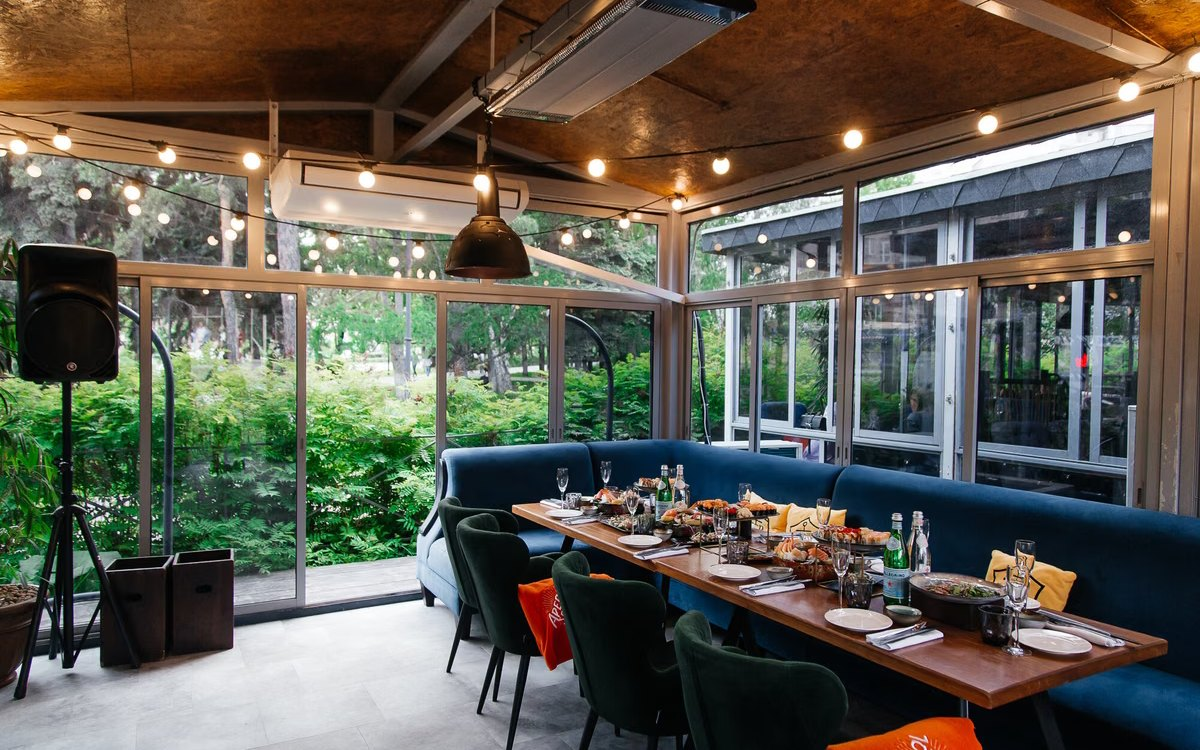
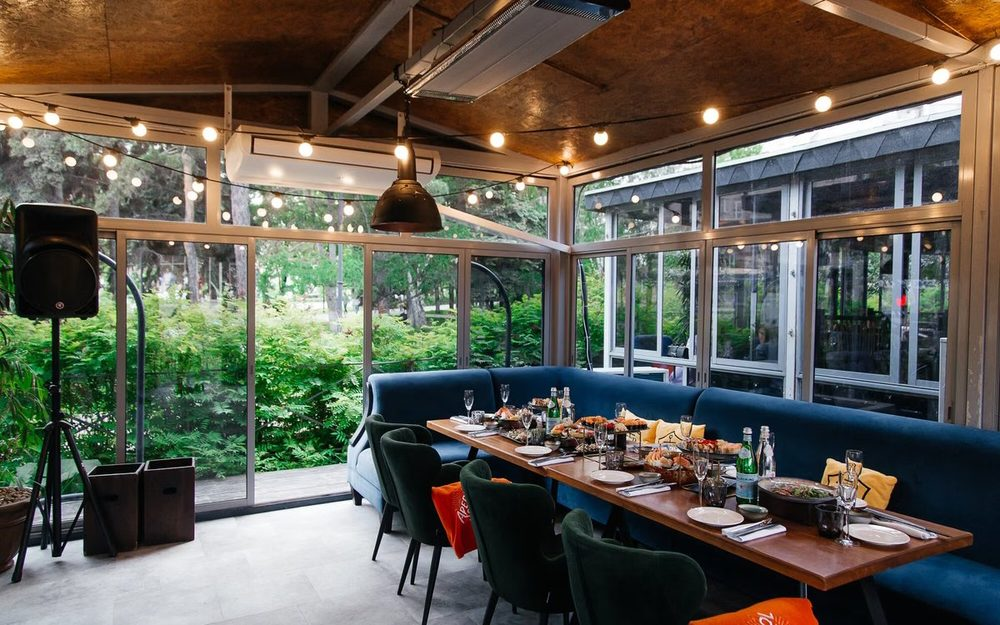
Ускорение загрузки фото и чистка мёртвого кода
- WebP через <picture> с JPEG-фоллбэком, фото ужаты до 1000 px:
  2813 КБ -> 1164 КБ (41%)
- loading=lazy, decoding=async и width/height на всех 15 фото
- удалён неработавший скрипт подстановки фото из photos/ (18 строк):
  все картинки и так прописаны в разметке
- убран тег фильтра italy у «Сицилии» — кнопки для него нет

diff --git a/index.html b/index.html
@@ -126,6 +126,7 @@
   .card .ill .b{fill:#C3CEDC}
 
   /* photos */
+  .card picture{display:block}
   .card img.ph{display:block;width:100%;aspect-ratio:16/10;object-fit:cover;
     border-radius:3px;margin:-2px 0 15px;background:#E7DFD6}
 
@@ -241,7 +242,11 @@
     <div class="rule"></div>
     <h2>Где вы живёте</h2>
     <div class="card" data-photo="vidgof">
-      <img class="ph" alt="" src="photos/vidgof.jpg">
+      <picture>
+        <source srcset="photos/vidgof.webp" type="image/webp">
+        <img class="ph" alt="" src="photos/vidgof.jpg"
+             width="1000" height="625" loading="lazy" decoding="async">
+      </picture>
       <h3>Гранд Отель Видгоф</h3>
       <p class="kind">Ресепшн круглосуточно</p>
       <p class="meta">пр. Ленина, 26А<br><span>Бассейн, тренажёрный зал, завтрак</span></p>
@@ -265,8 +270,12 @@
       <button data-f="delivery">Доставка</button>
     </div>
 
-    <div class="card" data-t="blizko italy" data-photo="sicilia">
-      <img class="ph" alt="" src="photos/sicilia.jpg">
+    <div class="card" data-t="blizko" data-photo="sicilia">
+      <picture>
+        <source srcset="photos/sicilia.webp" type="image/webp">
+        <img class="ph" alt="" src="photos/sicilia.jpg"
+             width="1000" height="625" loading="lazy" decoding="async">
+      </picture>
       <h3>Сицилия</h3>
       <p class="kind">Итальянская, паста и пицца</p>
       <p class="meta">ул. Тимирязева, 28<br><span>Пн–Пт 12:00–23:00 · Сб–Вс 11:00–23:00</span>
@@ -280,7 +289,11 @@
     </div>
 
     <div class="card" data-t="blizko rus" data-photo="bufet">
-      <img class="ph" alt="" src="photos/bufet.jpg">
+      <picture>
+        <source srcset="photos/bufet.webp" type="image/webp">
+        <img class="ph" alt="" src="photos/bufet.jpg"
+             width="1000" height="625" loading="lazy" decoding="async">
+      </picture>
       <h3>Буфет на Большой</h3>
       <p class="kind">Русская кухня в историческом центре</p>
       <p class="meta">ул. Цвиллинга, 20<br><span>Ежедневно 12:00–00:00</span>
@@ -295,7 +308,11 @@
     </div>
 
     <div class="card" data-t="blizko rus" data-photo="zhuravlina">
-      <img class="ph" alt="" src="photos/zhuravlina.jpg">
+      <picture>
+        <source srcset="photos/zhuravlina.webp" type="image/webp">
+        <img class="ph" alt="" src="photos/zhuravlina.jpg"
+             width="1000" height="625" loading="lazy" decoding="async">
+      </picture>
       <h3>Журавлина</h3>
       <p class="kind">Славянская кухня, вареники и борщ</p>
       <p class="meta">ул. Кирова, 163<br><span>Ежедневно 12:00–23:00</span>
@@ -308,7 +325,11 @@
     </div>
 
     <div class="card" data-t="blizko rus" data-photo="rodnya">
-      <img class="ph" alt="" src="photos/rodnya.jpg">
+      <picture>
+        <source srcset="photos/rodnya.webp" type="image/webp">
+        <img class="ph" alt="" src="photos/rodnya.jpg"
+             width="1000" height="625" loading="lazy" decoding="async">
+      </picture>
       <h3>Родня</h3>
       <p class="kind">Русская кухня и стейки, вечером живая музыка</p>
       <p class="meta">ул. Кирова, 82, второй этаж<br><span>Ежедневно 12:00–00:00</span>
@@ -321,7 +342,11 @@
     </div>
 
     <div class="card" data-t="asia" data-photo="lancheria">
-      <img class="ph" alt="" src="photos/lancheria.jpg">
+      <picture>
+        <source srcset="photos/lancheria.webp" type="image/webp">
+        <img class="ph" alt="" src="photos/lancheria.jpg"
+             width="1000" height="625" loading="lazy" decoding="async">
+      </picture>
       <h3>Ланчерия</h3>
       <p class="kind">Паназиатская: рамен, поке, роллы</p>
       <p class="meta">пр. Ленина, 63<br><span>Ежедневно до 23:00</span><br>
@@ -334,7 +359,11 @@
     </div>
 
     <div class="card" data-t="asia" data-photo="asabi">
-      <img class="ph" alt="" src="photos/asabi.jpg">
+      <picture>
+        <source srcset="photos/asabi.webp" type="image/webp">
+        <img class="ph" alt="" src="photos/asabi.jpg"
+             width="1000" height="625" loading="lazy" decoding="async">
+      </picture>
       <h3>Asabi</h3>
       <p class="kind">Паназиатская: суши, утка, бранчи по выходным</p>
       <p class="meta">пр. Ленина, 66а<br><span>Вс–Чт 12:00–23:00 · Пт–Сб 12:00–01:00</span>
@@ -349,7 +378,11 @@
     </div>
 
     <div class="card" data-t="company" data-photo="belyrynok">
-      <img class="ph" alt="" src="photos/belyrynok.jpg">
+      <picture>
+        <source srcset="photos/belyrynok.webp" type="image/webp">
+        <img class="ph" alt="" src="photos/belyrynok.jpg"
+             width="1000" height="625" loading="lazy" decoding="async">
+      </picture>
       <h3>Белый рынок</h3>
       <p class="kind">Гастромаркет: двадцать корнеров и два бара</p>
       <p class="meta">ул. Тернопольская, 6<br><span>Вс–Чт 11:00–22:00 · Пт–Сб 11:00–00:00</span>
@@ -363,7 +396,11 @@
     </div>
 
     <div class="card" data-t="delivery" data-photo="sushimango">
-      <img class="ph" alt="" src="photos/sushimango.jpg">
+      <picture>
+        <source srcset="photos/sushimango.webp" type="image/webp">
+        <img class="ph" alt="" src="photos/sushimango.jpg"
+             width="1000" height="625" loading="lazy" decoding="async">
+      </picture>
       <h3>Sushi Манго</h3>
       <p class="kind">Доставка суши и роллов в номер</p>
       <p class="meta">ул. Образцова, 28 — только доставка и самовывоз</p>
@@ -381,7 +418,11 @@
     <h2>Куда сходить</h2>
 
     <div class="card" data-photo="kirovka">
-      <img class="ph" alt="" src="photos/kirovka.jpg">
+      <picture>
+        <source srcset="photos/kirovka.webp" type="image/webp">
+        <img class="ph" alt="" src="photos/kirovka.jpg"
+             width="1000" height="625" loading="lazy" decoding="async">
+      </picture>
       <h3>Кировка</h3>
       <p class="kind">Пешеходная улица, дома 92–100 по улице Кирова</p>
       <p class="meta"><span>Открыта всегда — лучше вечером</span>
@@ -393,7 +434,11 @@
     </div>
 
     <div class="card" data-photo="naberezhnaya">
-      <img class="ph" alt="" src="photos/naberezhnaya.jpg">
+      <picture>
+        <source srcset="photos/naberezhnaya.webp" type="image/webp">
+        <img class="ph" alt="" src="photos/naberezhnaya.jpg"
+             width="1000" height="625" loading="lazy" decoding="async">
+      </picture>
       <h3>Набережная реки Миасс</h3>
       <p class="kind">Прогулочная набережная в центре</p>
       <p class="meta"><span>Открыта всегда</span>
@@ -404,7 +449,11 @@
     </div>
 
     <div class="card" data-photo="gagarin">
-      <img class="ph" alt="" src="photos/gagarin.jpg">
+      <picture>
+        <source srcset="photos/gagarin.webp" type="image/webp">
+        <img class="ph" alt="" src="photos/gagarin.jpg"
+             width="1000" height="625" loading="lazy" decoding="async">
+      </picture>
       <h3>Парк имени Гагарина</h3>
       <p class="kind">Главный парк города, вход с улицы Труда</p>
       <p class="meta"><span>Лесопарк со скалами и прудами, аттракционы, зоопарк рядом</span>
@@ -415,7 +464,11 @@
     </div>
 
     <div class="card" data-photo="hwoya">
-      <img class="ph" alt="" src="photos/hwoya.jpg">
+      <picture>
+        <source srcset="photos/hwoya.webp" type="image/webp">
+        <img class="ph" alt="" src="photos/hwoya.jpg"
+             width="1000" height="625" loading="lazy" decoding="async">
+      </picture>
       <h3>Хвоя</h3>
       <p class="kind">Термальный спа-комплекс на границе городского бора</p>
       <p class="meta">ул. Лесопарковая, 9А<br><span>Возраст 14+</span>
@@ -434,7 +487,11 @@
     <h2>Вечером</h2>
 
     <div class="card" data-photo="ugol">
-      <img class="ph" alt="" src="photos/ugol.jpg">
+      <picture>
+        <source srcset="photos/ugol.webp" type="image/webp">
+        <img class="ph" alt="" src="photos/ugol.jpg"
+             width="1000" height="625" loading="lazy" decoding="async">
+      </picture>
       <h3>Уголь Лаунж</h3>
       <p class="kind">Кальяны и авторская кухня, панорамные окна</p>
       <p class="meta">пр. Ленина, 64Б, ЖК «Алое поле»<br><span>Второй этаж, вход с улицы Володарского</span>
@@ -447,7 +504,11 @@
     </div>
 
     <div class="card" data-photo="siberia">
-      <img class="ph" alt="" src="photos/siberia.jpg">
+      <picture>
+        <source srcset="photos/siberia.webp" type="image/webp">
+        <img class="ph" alt="" src="photos/siberia.jpg"
+             width="1000" height="625" loading="lazy" decoding="async">
+      </picture>
       <h3>Siberia Lounge</h3>
       <p class="kind">Кальянная с кухней и караоке</p>
       <p class="meta">ул. Труда, 181<br><span>Вс–Чт 12:00–01:00 · Пт–Сб 12:00–03:00</span>
@@ -548,25 +609,6 @@
       });
     });
   }
-
-  // optional local photos: drop files into a "photos" folder next to this file
-  var EXT=['jpg','jpeg','png','webp'];
-  [].forEach.call(document.querySelectorAll('.card[data-photo]'), function(card){
-    if(card.querySelector('img.ph')) return;
-    var slug=card.dataset.photo, i=0;
-    function tryNext(){
-      if(i>=EXT.length) return;
-      var img=new Image();
-      img.onload=function(){
-        img.className='ph'; img.alt='';
-        var ill=card.querySelector('.ill'); if(ill) ill.remove();
-        card.insertBefore(img, card.firstElementChild);
-      };
-      img.onerror=function(){ i++; tryNext(); };
-      img.src='photos/'+slug+'.'+EXT[i];
-    }
-    tryNext();
-  });
 
   // tap address to copy
   [].forEach.call(document.querySelectorAll('.card .meta'), function(m){
